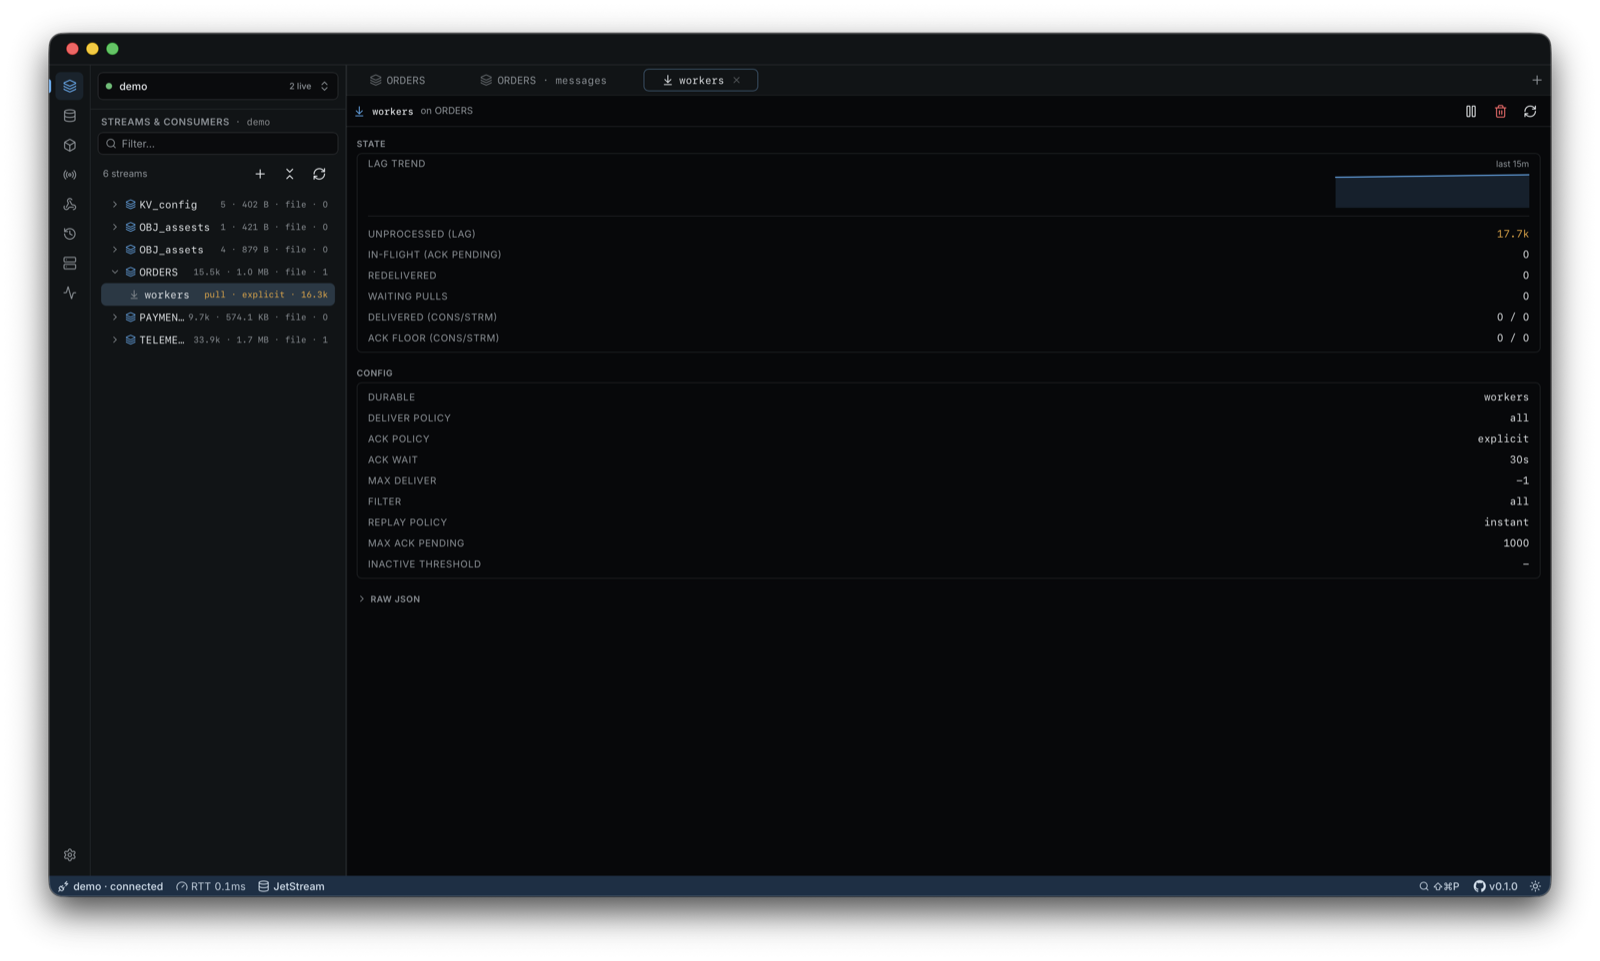
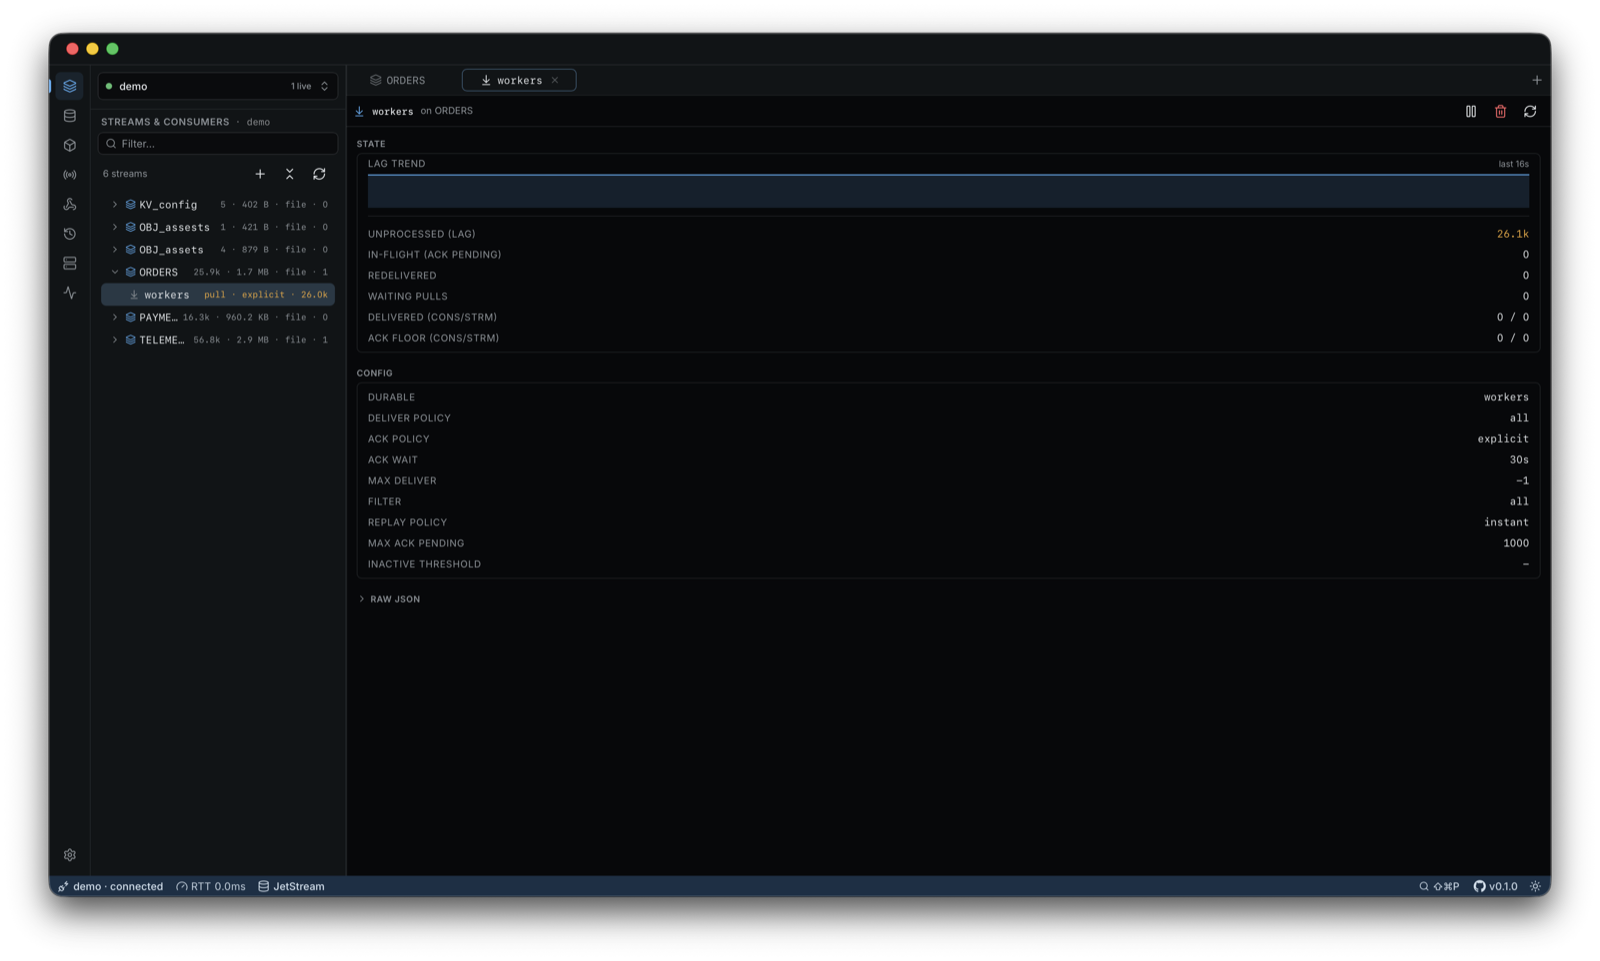
fix(charts): scale the lag trend to its own range too
Kept it zero-based on the argument that zero means something for a backlog,
which is true and produced a solid filled box: 26k of lag over a short window
pins the line to the top with no shape in it. The number beside the chart
carries the magnitude; the chart's job is whether the backlog is growing.

Changed region(s): [[0.2188, 0.1561, 0.9375, 0.2185], [0.2812, 0.0624, 0.375, 0.0937], [0.4062, 0.0624, 0.4688, 0.0937]]

diff --git a/apps/twigo/src/components/editor/jetstream/ConsumerDetailPanel.tsx b/apps/twigo/src/components/editor/jetstream/ConsumerDetailPanel.tsx
@@ -62,6 +62,10 @@ function LagTrend({ points }: { points: SeriesPoint[] }) {
         windowMs={LAG_WINDOW_MS}
         gapMs={LAG_GAP_MS}
         height={40}
+        // The number below carries the magnitude; this answers the other
+        // question - whether the backlog is growing - and from zero a lag of
+        // thousands is a filled box with no shape in it.
+        baseline="auto"
         label={`Unprocessed messages, last ${covered}`}
         className="text-brand"
       />
